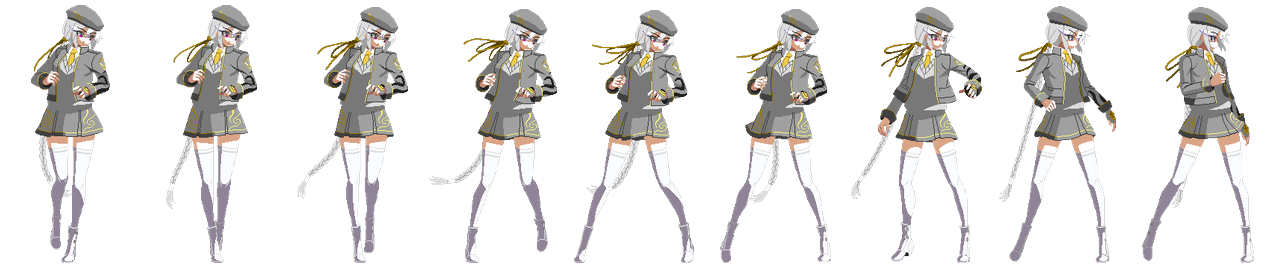
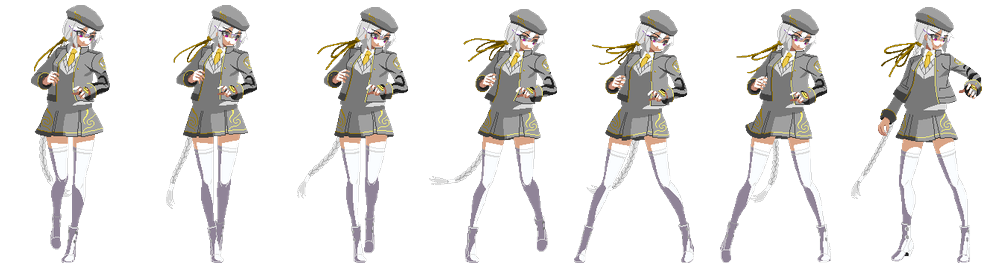
SFFG: Sarge animation polish round — correct idle, forward-facing crouch, trimmed walk, paced special
Owner feedback round:
- idle is the settled combat stance from the tail of her intro (frames
  10-18) — the hat-tip flourish at the start is skipped. (The previous
  pick turned out to be her disappointed defeat pose, which was funny
  but wrong.)
- crouch rebuilt from the forward-facing kneel block (77-96); the old
  frames were a crouch-turn that left her facing away
- walk forward trimmed to its clean cycle (334-340), dropping the
  sketchy tail frames
- Reel In no longer freezes on one drawing after the whip flies out:
  the engine now supports move.impact (which drawing is the hit) and
  spreads the remaining follow-through drawings across the recovery
  window; the special's full 9-frame hair-whip arc plays out

Claude-Session: https://claude.ai/code/session_01ToKNyodTLDquYTFuebZcQU

diff --git a/fight.html b/fight.html
@@ -551,10 +551,10 @@ const CHARACTERS=[
              design verified distinct from any commercial fighter; chroma-keyed,
              cropped and re-composed into strips. Frame mapping identified by
              the owner watching every block animated. See art/sarge/LICENSE.txt */
-    path:'art/sarge/', scale:0.58, smooth:1, idleTop:8, v:4,
+    path:'art/sarge/', scale:0.58, smooth:1, idleTop:8, v:5,
     anims:{
-      idle:{f:'idle.png',n:8,cw:115,ch:270,cx:57,fy:265},
-      run:{f:'run.png',n:9,cw:141,ch:268,cx:70,fy:263},
+      idle:{f:'idle.png',n:9,cw:164,ch:268,cx:82,fy:263},
+      run:{f:'run.png',n:7,cw:141,ch:268,cx:70,fy:263},
       walkback:{f:'walkback.png',n:7,cw:120,ch:270,cx:60,fy:265},
       dash:{f:'dash.png',n:8,cw:257,ch:191,cx:128,fy:186},
       backdash:{f:'backdash.png',n:6,cw:190,ch:272,cx:95,fy:267},
@@ -562,7 +562,7 @@ const CHARACTERS=[
       fall:{f:'fall.png',n:2,cw:209,ch:224,cx:104,fy:219},
       attack1:{f:'attack1.png',n:6,cw:253,ch:259,cx:116,fy:253},
       attack2:{f:'attack2.png',n:8,cw:288,ch:280,cx:105,fy:275},
-      special:{f:'special.png',n:8,cw:270,ch:282,cx:157,fy:276},
+      special:{f:'special.png',n:9,cw:270,ch:281,cx:157,fy:276},
       super:{f:'super.png',n:9,cw:275,ch:324,cx:78,fy:319},
       clight:{f:'clight.png',n:6,cw:276,ch:177,cx:93,fy:172},
       cheavy:{f:'cheavy.png',n:7,cw:262,ch:207,cx:139,fy:202},
@@ -571,13 +571,13 @@ const CHARACTERS=[
       block:{f:'block.png',n:4,cw:203,ch:267,cx:101,fy:262},
       death:{f:'death.png',n:6,cw:264,ch:206,cx:132,fy:201},
       getup:{f:'getup.png',n:5,cw:242,ch:166,cx:121,fy:161},
-      crouch:{f:'crouch.png',n:4,cw:139,ch:268,cx:69,fy:263}
+      crouch:{f:'crouch.png',n:5,cw:182,ch:217,cx:91,fy:212}
     }
   },
   moves:{
     light:{name:'Jab',dmg:55,startup:8,active:3,recovery:14,hitstun:15,blockstun:9,hitstop:5,kbx:70,box:{x:26,y:-128,w:84,h:30}},
     heavy:{name:'Pirouette Kick',dmg:115,startup:14,active:4,recovery:20,hitstun:22,blockstun:12,hitstop:9,kbx:110,box:{x:28,y:-136,w:100,h:46}},
-    special:{name:'Reel In',dmg:90,startup:13,active:4,recovery:22,hitstun:26,blockstun:13,hitstop:10,kbx:-130,anim:'special',box:{x:34,y:-130,w:110,h:40}},
+    special:{name:'Reel In',dmg:90,startup:13,active:4,recovery:22,hitstun:26,blockstun:13,hitstop:10,kbx:-130,anim:'special',impact:6,box:{x:34,y:-130,w:110,h:40}},
     air:{name:'Volley Kick',dmg:60,startup:8,active:7,recovery:9,hitstun:15,blockstun:9,hitstop:5,kbx:60,hits:'high',anim:'airatk',box:{x:20,y:-100,w:104,h:40}},
     clight:{name:'Ankle Sweep',dmg:45,startup:7,active:3,recovery:12,hitstun:14,blockstun:9,hitstop:5,kbx:55,hits:'low',anim:'clight',box:{x:30,y:-44,w:112,h:32}},
     cheavy:{name:'Braid Riser',dmg:95,startup:12,active:4,recovery:20,hitstun:22,blockstun:12,hitstop:8,kbx:60,launch:1,kby:-230,anim:'cheavy',box:{x:20,y:-150,w:80,h:110}},
@@ -1127,10 +1127,14 @@ function spriteFrame(f,c){
       let k=(m.anim&&A[m.anim])?m.anim:
         ((f.mv==='light'||f.mv==='air'||f.mv==='clight'||f.mv==='throw')?'attack1':'attack2');
       const n=A[k].n;
+      const imp=m.impact!=null?m.impact:n-2;   // which drawing is the hit (default: second-to-last)
       let idx;
-      if(f.t<m.startup)idx=Math.min(n-3,((f.t*(n-2))/m.startup)|0); // windup drawings
-      else if(f.t<m.startup+m.active)idx=n-2;                       // the impact frame
-      else idx=n-1;                                                 // follow-through
+      if(f.t<m.startup)idx=Math.min(imp-1,((f.t*imp)/m.startup)|0);          // windup drawings
+      else if(f.t<m.startup+m.active)idx=imp;                                // the impact frame
+      else{                                                                  // follow-through spread over recovery
+        const rec=n-1-imp;
+        idx=rec>0?Math.min(n-1,imp+1+(((f.t-m.startup-m.active)*rec)/Math.max(1,m.recovery)|0)):n-1;
+      }
       const sq=(f.mv==='clight'||f.mv==='cheavy')&&!(m.anim&&A[m.anim])?0.8:1;
       return {k,idx,squash:sq};
     }
